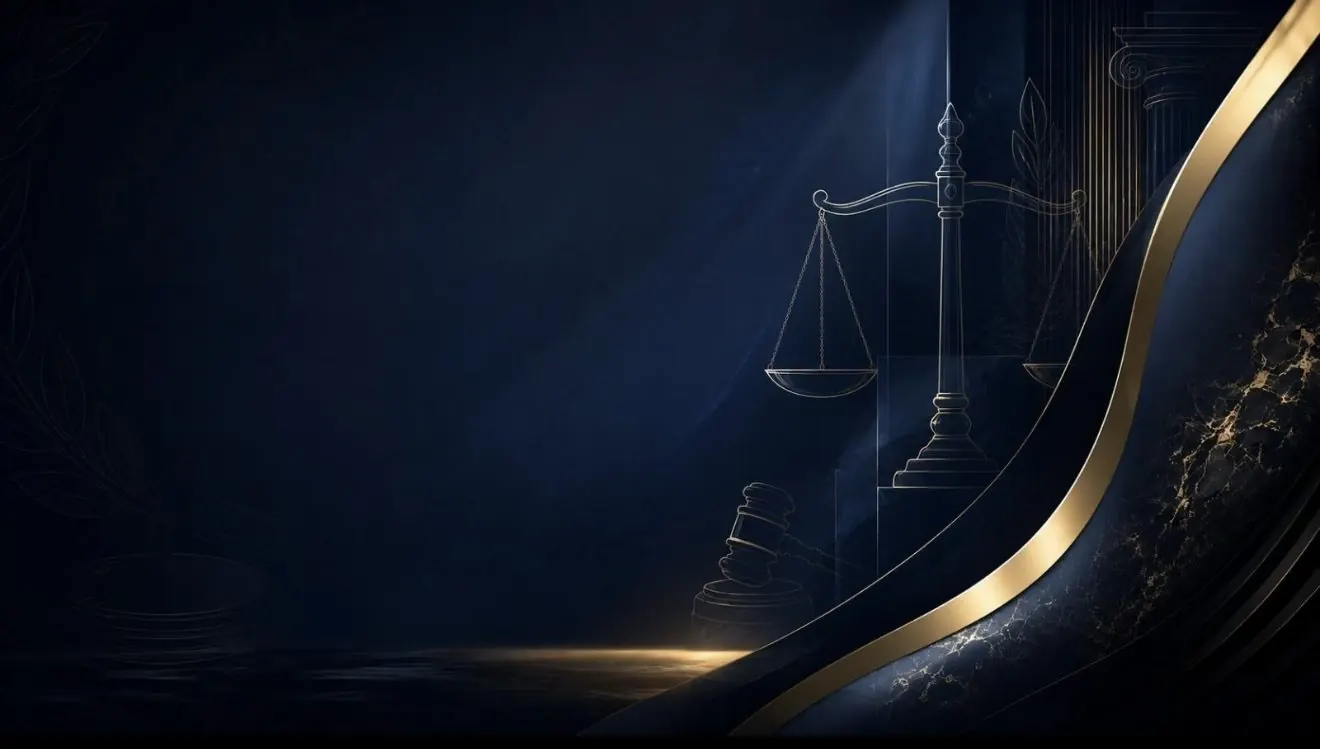
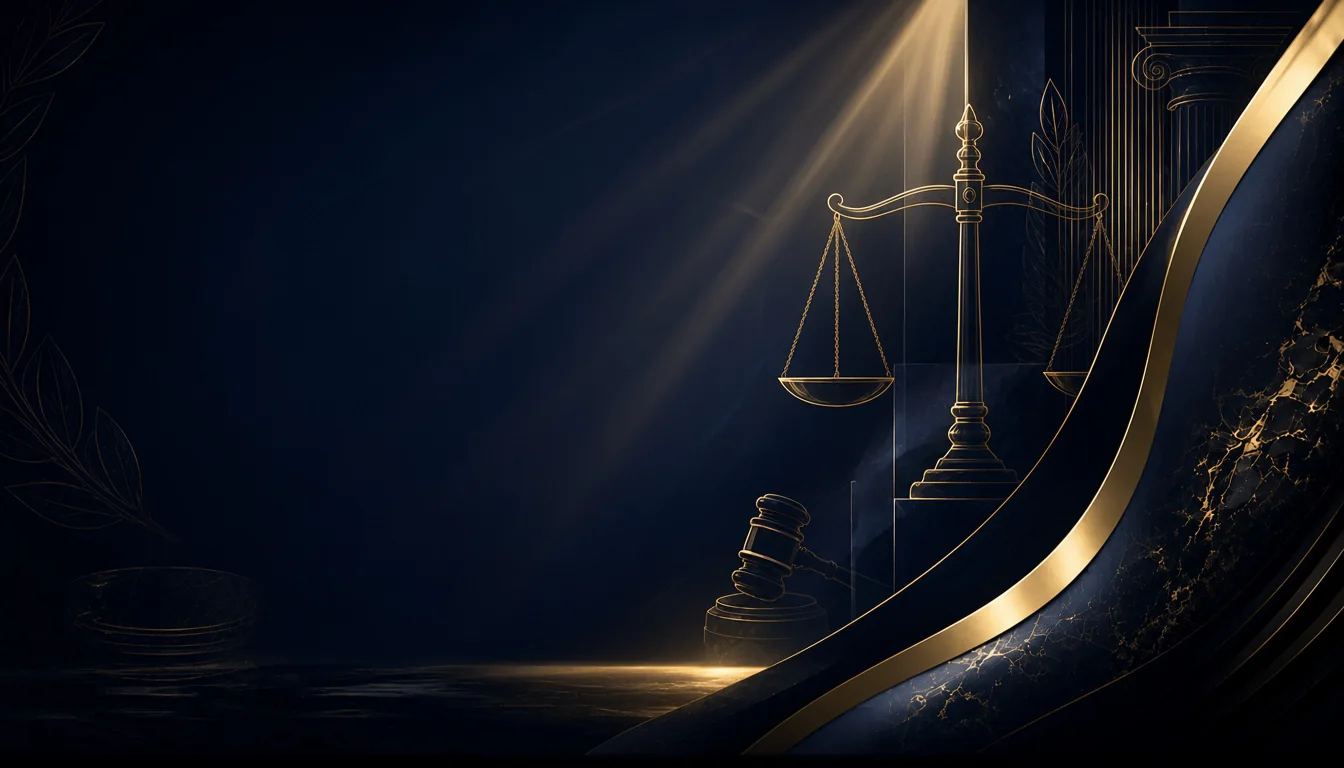
Add files via upload

diff --git a/index.html b/index.html
@@ -406,7 +406,7 @@
 </style>
 </head>
 <body>
-<div class="bg-art" aria-hidden="true"><img src="fundo.webp" alt="" id="bgimg" decoding="async" fetchpriority="high"></div>
+<div class="bg-art" aria-hidden="true"><picture><source media="(max-width: 760px)" srcset="fundo-mobile.webp" type="image/webp"><img src="fundo.webp" alt="" id="bgimg" width="1344" height="768" decoding="async" fetchpriority="high"></picture></div>
 
 <!-- Símbolos reutilizáveis: balança (recriada do cartão) e ícones -->
 <svg width="0" height="0" style="position:absolute" aria-hidden="true" focusable="false">
